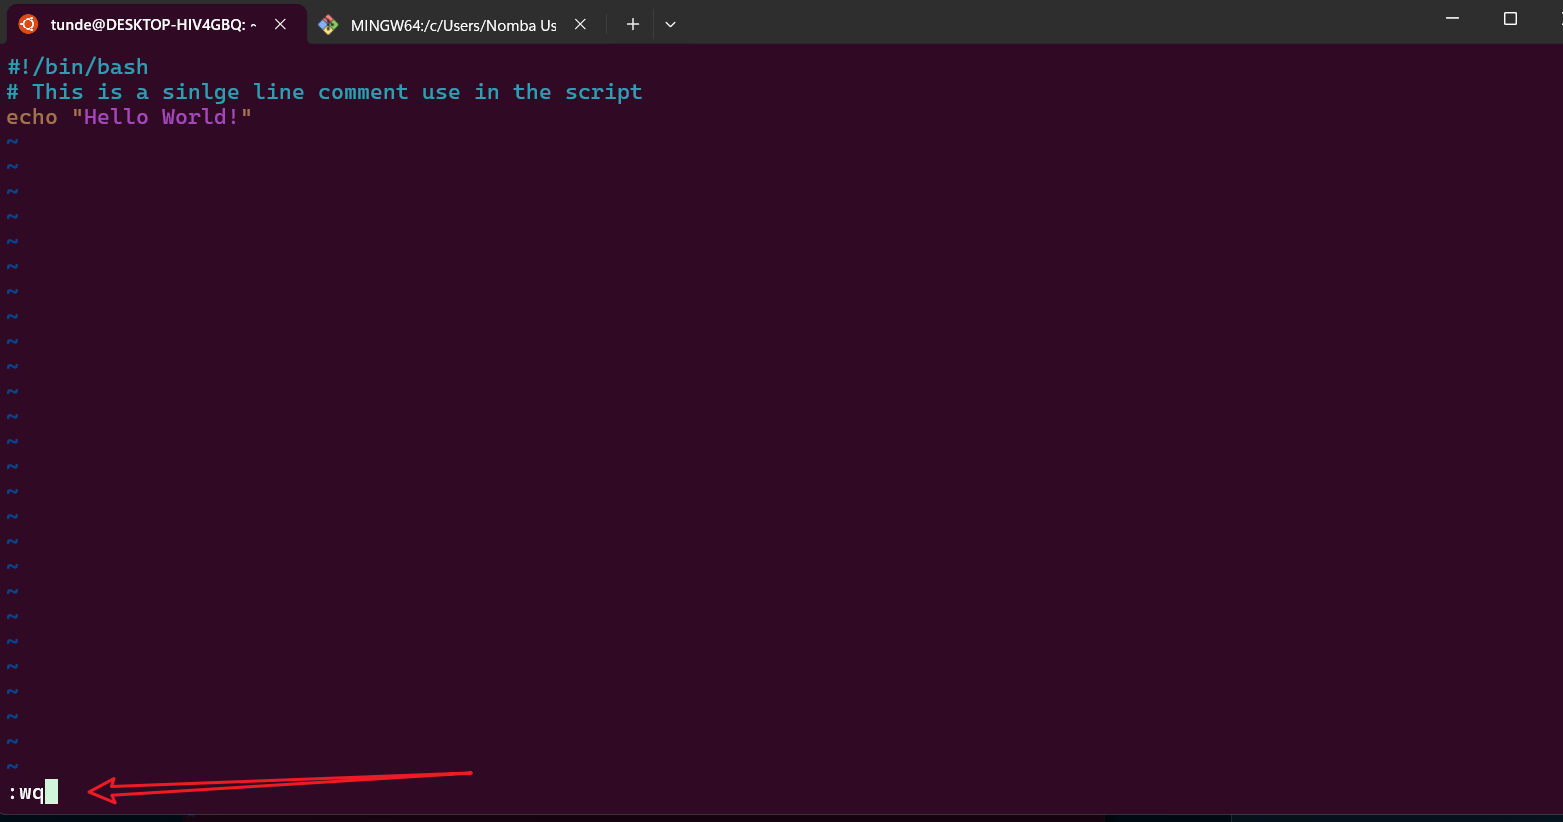
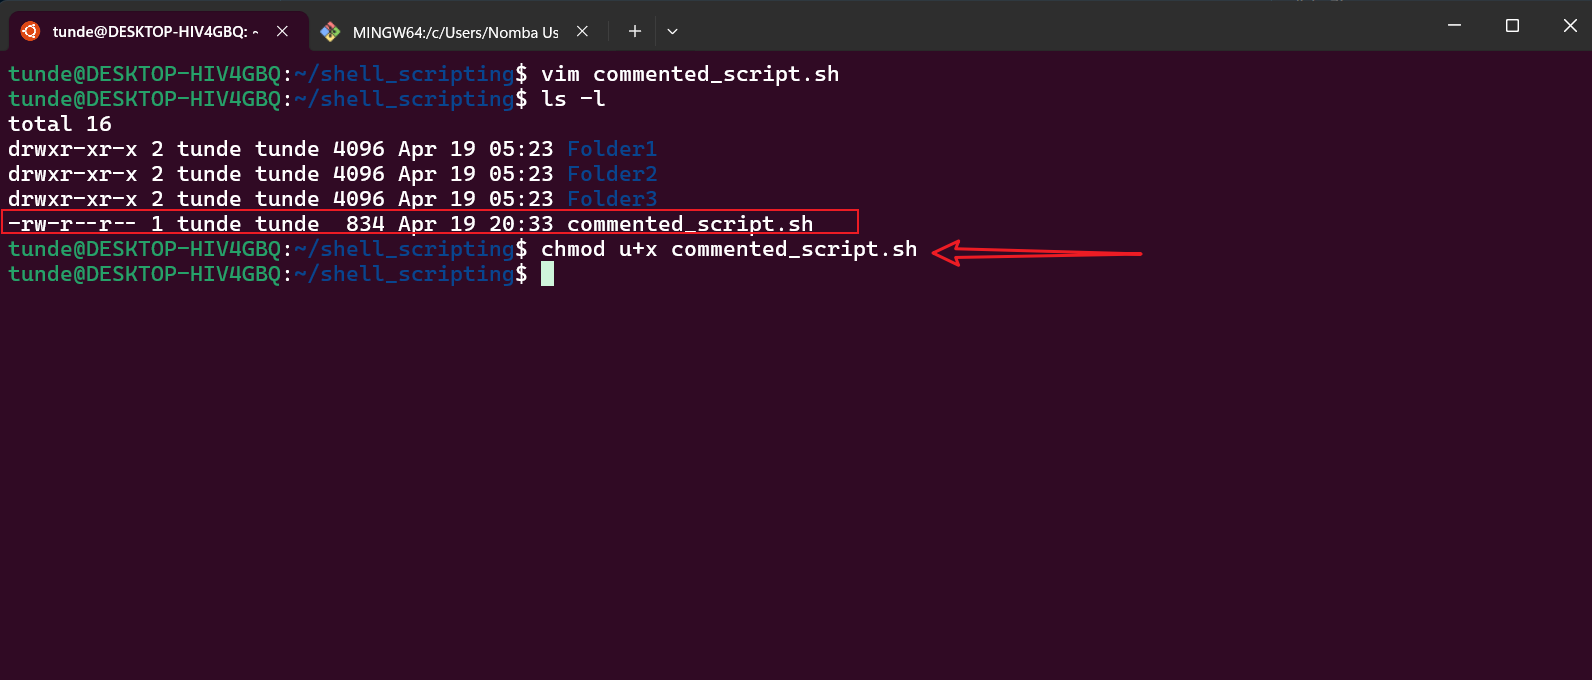
Doc: Correction to the project

Changed region(s): [[0.0, 0.0, 1.0, 0.4324], [0.0, 0.9265, 1.0, 1.0]]

diff --git a/Shell_script-Comments_project/README.md b/Shell_script-Comments_project/README.md
@@ -13,155 +13,104 @@ Comments are essential parts of shell scripting. They help us document or take n
 
 ## Types of Comments in Shell Scripting
 
-There are two types of comments in shell scripting: **single-line comments** and **multi-line comments**.
+There are three types of comments in shell scripting: **single-line comments**, **multi-line comments**, and **inline comments**.
 
 ### Single-line Comments
 
 Single-line comments are used to comment out a single line of code. They are denoted by a single `#` sign followed by the comment.
 
----
-
-### Task: Single-line Comments
-
-#### 1. Create a file with `vim` called `comment.sh`
-
-To create a file with `vim`, use the `vim` command followed by the name of the file.
-
-- **Command**:
-```bash
-vim comment.sh
-```
-- **Screenshot**:
-![](./img/01.png)
-
-#### 2. Write a script that echoes "Hello World!"
-
-To write a script that echoes "Hello World!", we use the `echo` command.
-
-```bash
-#!/bin/bash
-# This is a single-line comment in this script
-echo "Hello World!"
-```
-
-- **Screenshot 1**:
-![](./img/02.png)
-
-- **Screenshot 2**:
-![](./img/03.png)
-
-In Screenshot 1, the script is shown without comments. In Screenshot 2, a single-line comment is applied.
-
-#### 3. Save the script in `vim` by pressing the `esc` key, typing `:wq`, and pressing `Enter`.
-
-```bash
-:wq
-```
-- **Screenshot**:
-![](./img/04.png)
-
-#### 4. Confirm the presence of the `.sh` file and check its permissions using the `ls -latr` command.
-
-```bash
-ls -latr
-```
-- **Screenshot**:
-![](./img/05.png)
-
-From the screenshot above, the user only has read and write permissions.
-
-#### 5. Change user permissions to execute the file using the `chmod` command.
-
-```bash
-chmod u+x comment.sh
-```
-- **Screenshot**:
-![](./img/06.png)
-
-#### 6. Run the script using `./`.
-
-```bash
-./comment.sh
-```
-
-- **Screenshot**:
-![](./img/08.png)
-
-In the screenshot above, the script prints out "Hello World!" without the comments.
-
----
-
 ### Multi-line Comments
 
 Multi-line comments are used to comment on multiple lines of code. In shell scripting, there is no direct syntax for multi-line comments, but we can achieve this by using `#` at the beginning of each line.
 
+### Inline Comments
+
+Inline comments are comments written on the same line as a command. They are useful for providing context or explanations for specific commands.
+
 ---
 
-### Task: Multi-line Comments
+## Task: Create `commented_script.sh`
 
-#### 1. Create a file with `vim` called `comment2.sh`.
+The following script demonstrates the use of single-line, multi-line, and inline comments while performing the specified tasks: displaying a welcome message, creating a folder, listing files, and displaying a goodbye message.
 
-```bash
-vim comment2.sh
-```
-- **Screenshot**:
-![](./img/09.png)
-
-#### 2. Write a script that creates two `.txt` files (`text1.txt` and `text2.txt`) while adding a multi-line comment.
+### Script: `commented_script.sh`
 
 ```bash
 #!/bin/bash
-# This is a multi-line comment
-# This script creates two text files called text1.txt and text2.txt
-# Creating text1.txt
-touch text1.txt
-# Creating text2.txt
-touch text2.txt
+
+# Single-line comment: This script demonstrates the use of comments in shell scripting.
+
+# Multi-line comment:
+# The script performs the following tasks:
+# 1. Displays a welcome message.
+# 2. Creates a folder named "example_folder".
+# 3. Lists the files in the current directory.
+# 4. Displays a goodbye message.
+
+# Display a welcome message
+echo "Welcome to the shell scripting tutorial!" # Inline comment: This prints a welcome message.
+
+# Create a folder named "example_folder"
+mkdir example_folder # Inline comment: This creates a new folder.
+
+# List the files in the current directory
+echo "Listing files in the current directory:"
+ls -latr # Inline comment: This lists all files with details.
+
+# Display a goodbye message
+echo "Goodbye! Script execution completed." # Inline comment: This prints a goodbye message.
 ```
 
-- **Screenshot**:
-![](./img/10.png)
+---
 
-#### 3. Save the script in `vim` by pressing the `esc` key, typing `:wq`, and pressing `Enter`.
+## Steps to Create and Execute the Script
+
+### 1. Create the Script File
+
+Use the `vim` command to create the script file.
 
 ```bash
-:wq
+vim commented_script.sh
 ```
 
-#### 4. Confirm the presence of the `.sh` file and check its permissions using the `ls -latr` command.
+- **Screenshot**: 
+![](./img/01.png)
+
+### 2. Write the Script
+
+Copy and paste the script above into the `commented_script.sh` file.
+
+- **Screenshot**:
+![](./img/02.png)
+### 3. Save and Exit
+
+Press the `esc` key, type `:wq`, and press `Enter` to save and exit.
+
+- **Screenshot**:
+![](./img/03.png)
+
+### 4. Make the Script Executable
+
+Change the file permissions to make it executable.
 
 ```bash
-ls -latr
+chmod u+x commented_script.sh
 ```
-- **Screenshot**:
-![](./img/11.png)
 
-#### 5. Change user permissions to execute the file using the `chmod` command.
+- **Screenshot**: 
+![](./img/04.png)
+![](./img/05.png)
+
+### 5. Run the Script
+
+Execute the script using the following command:
 
 ```bash
-chmod u+x comment2.sh
+./commented_script.sh
 ```
-- **Screenshot**:
-![](./img/12.png)
 
-#### 6. Run the script using `./`.
-
-```bash
-./comment2.sh
-```
-- **Screenshot**:
-![](./img/13.png)
-
-In the screenshot above, the script creates two text files: `text1.txt` and `text2.txt`.
-
-#### 7. Confirm the presence of the text files created and check their permissions using the `ls -latr` command.
-
-```bash
-ls -latr
-```
-- **Screenshot**:
-![](./img/13.png)
-
+- **Screenshot**: 
+![](./img/06.png)
 ---
 
 ## Use Cases for Comments in Shell Scripting
